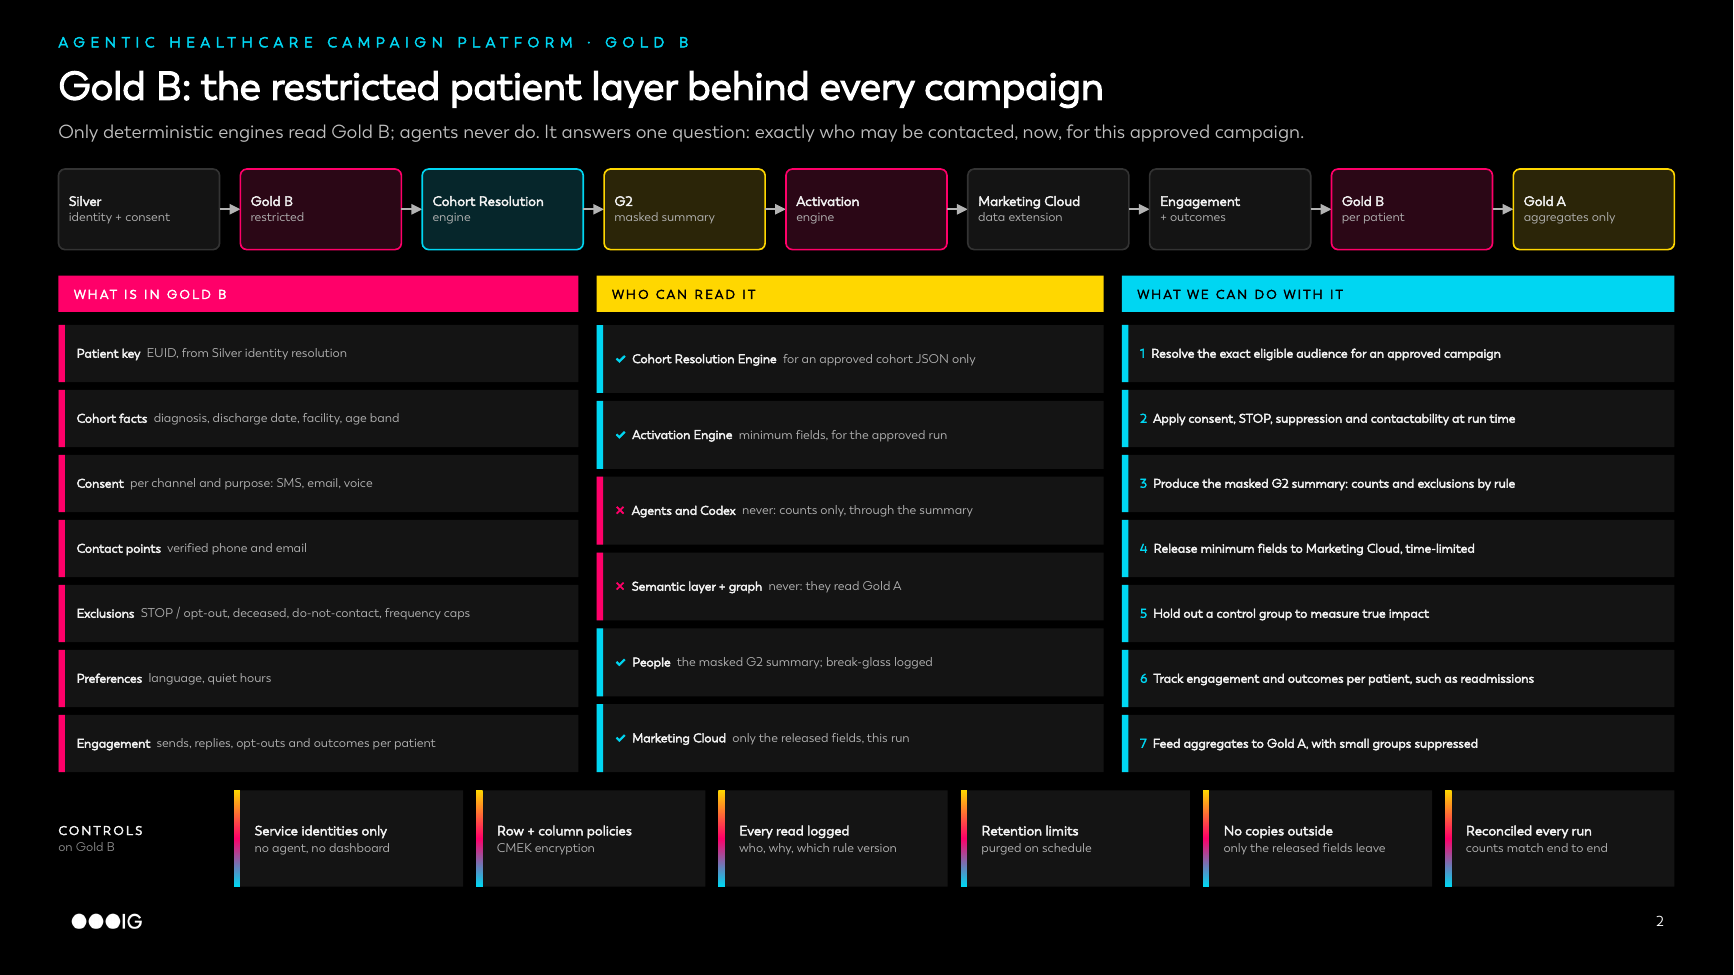
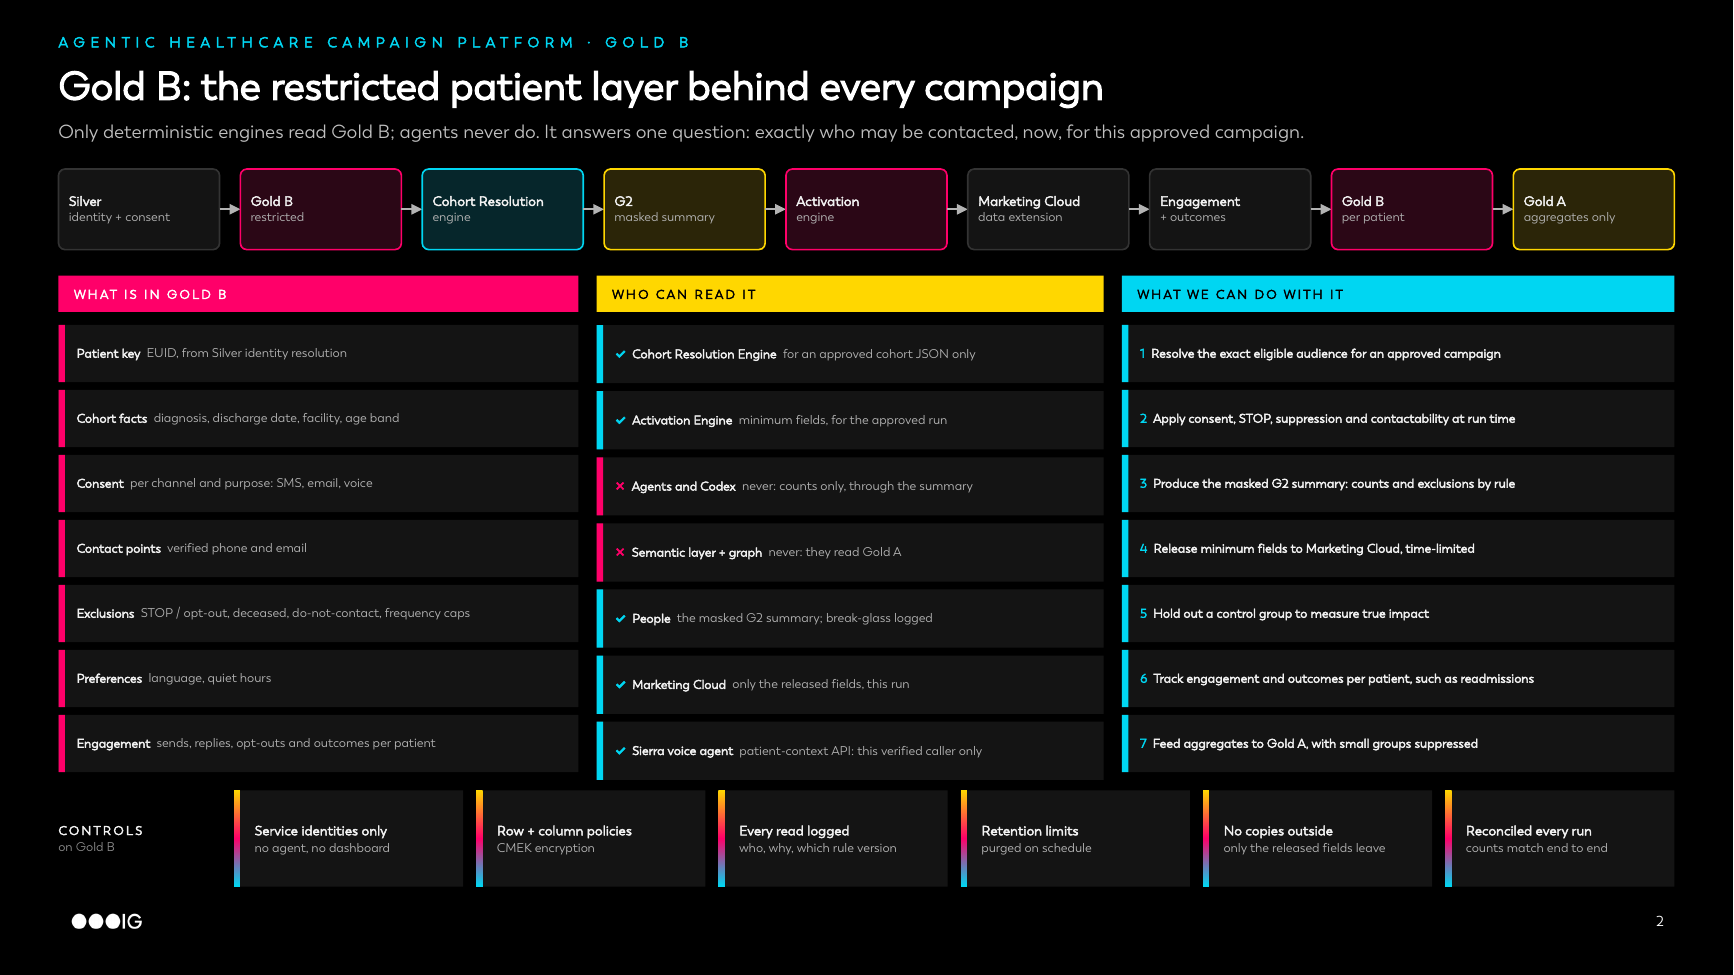
Preview: scoped patient-context API on the Sierra slide
After verification Sierra uses two scoped APIs: scheduling (Epic) and a
read-only patient-context API on Gold B for this caller's campaign status
and consent, never a list. The Gold B slide lists Sierra as a reader
through that API.

Claude-Session: https://claude.ai/code/session_01Hf94kqMzSofkkrQm7kpNba

diff --git a/poc/data_harness/sierra_voice.py b/poc/data_harness/sierra_voice.py
@@ -35,7 +35,7 @@ Sierra answers questions from governed knowledge base articles in Google Cloud, 
 WALK IT
 - Left: the caller talks to the Sierra voice agent.
 - Top, knowledge path (no PHI): articles live in GCP with an owner, version, review date and approval; DLP and Collibra scan them for PHI; only approved articles are indexed and synced to Sierra when they change.
-- Bottom, patient path: verify the caller first; then a scoped scheduling API returns only that patient's data and enforces the rules (cancellation window, reschedule rules, provider restrictions); bookings are written to the scheduling system of record, never a GCP copy.
+- Bottom, patient path: verify the caller first. Then two scoped APIs, each returning only this caller's data: the scheduling API reads and writes the scheduling system of record (Epic) and enforces the rules (cancellation window, reschedule rules, provider restrictions), so bookings are never a GCP copy; the patient-context API reads Gold B, read-only, for this caller's campaign status and consent, for example "you received a heart-failure follow-up text". It never returns a list.
 - Right, after every call: hand-off to a person when needed, masked transcripts with retention limits, opt-outs said on the call update the consent of record at once, outcomes go per call into Gold B and as aggregates into Gold A, and test calls before every release.
 - The knowledge base uses the same semantic layer and knowledge graph as campaigns, so Sierra and every campaign use one vocabulary for locations, visit types and services.
 - Bottom: the seven safeguards."""
@@ -157,30 +157,40 @@ def build(prs, layout):
     cv.rect(mx + mw / 2 - 1.6, by - 0.1, 3.2, 0.2, "000000", None)
     pill(cv, mx + mw / 2 - 1.55, by - 0.09, 3.1, "NO PATIENT RECORDS IN THE KNOWLEDGE BASE", CYAN, h=0.18,
          size=5.2)
-    # patient path
+    # patient path: verify, then two scoped APIs, each to one source
     py, ph = pt_y + 0.4, 1.0
-    pw = [1.75, 2.55, 2.42]
+    pw = [1.6, 2.6, 2.4]
     px = [mx + 0.12]
     for w in pw[:-1]:
         px.append(px[-1] + w + 0.2)
     gate(cv, px[0], py, pw[0], ph, "Verify the caller", "Date of birth plus a one-time code, before any "
          "patient detail.")
-    fx, fy, fw, fh = cv.frame(px[1], py, pw[1], ph, CARD, 0.02)
-    cv.text(fx + 0.1, fy + 0.04, fw - 0.2, 0.26, "Scoped scheduling API", size=7, bold=True, color=T1,
-            anchor=MSO_ANCHOR.MIDDLE)
-    cv.text(fx + 0.1, fy + 0.32, fw - 0.18, fh - 0.34, "Returns only this patient's data and minimum fields. "
-            "Enforces the rules; the agent never writes queries.", size=6, color=T2)
-    cv.rect(px[2], py, pw[2], ph, CARD, EDGE, 0.75, R, 0.08)
-    cv.rect(px[2] + 0.1, py + 0.08, 0.36, 0.2, CARD2, EDGE, 0.6, R, 0.3)
-    cv.text(px[2] + 0.1, py + 0.08, 0.36, 0.2, "Epic", size=5.4, bold=True, color=T1, align=PP_ALIGN.CENTER,
-            anchor=MSO_ANCHOR.MIDDLE)
-    cv.text(px[2] + 0.52, py + 0.05, pw[2] - 0.6, 0.26, "Scheduling system of record", size=7, bold=True, color=T1,
-            anchor=MSO_ANCHOR.MIDDLE)
-    cv.text(px[2] + 0.1, py + 0.36, pw[2] - 0.18, ph - 0.4, "Live availability; book, cancel, reschedule written "
-            "here. Never a GCP copy, which can lag.", size=6, color=T2)
-    cv.arrow(px[0] + pw[0], py + ph / 2, px[1], py + ph / 2, "8C8C8C", 1.0)
-    cv.arrow(px[1] + pw[1], py + ph / 2 - 0.12, px[2], py + ph / 2 - 0.12, CYAN, 1.25)
-    cv.arrow(px[2], py + ph / 2 + 0.12, px[1] + pw[1], py + ph / 2 + 0.12, CYAN, 1.25)
+    rh_ = (ph - 0.08) / 2
+    apis = [("Scoped scheduling API", "This patient's appointments and slots; rules enforced.", None, "Epic",
+             "Scheduling system of record", "Book, cancel, reschedule written here."),
+            ("Scoped patient-context API", "This caller's campaign status and consent; never a list.", CYAN,
+             "Gold B", "Restricted patient layer", "Read-only, for this verified call.")]
+    for k, (t, d, c, tag, st, sd) in enumerate(apis):
+        y = py + k * (rh_ + 0.08)
+        if c:
+            cv.rect(px[1], y, pw[1], rh_, CARD, c, 1.25, R, 0.08)
+        else:
+            fx, fy, fw, fh = cv.frame(px[1], y, pw[1], rh_, CARD, 0.02)
+        cv.text(px[1] + 0.1, y + 0.02, pw[1] - 0.2, rh_ - 0.04, [[(t, {"bold": True, "color": T1})],
+                                                                [(d, {"color": T2, "size": 6})]], size=7,
+                anchor=MSO_ANCHOR.MIDDLE, after=1)
+        cv.rect(px[2], y, pw[2], rh_, CARD, EDGE, 0.75, R, 0.08)
+        tw = 0.18 + 0.06 * len(tag)
+        cv.rect(px[2] + 0.1, y + (rh_ - 0.2) / 2, tw, 0.2, CARD2, EDGE, 0.6, R, 0.3)
+        cv.text(px[2] + 0.1, y + (rh_ - 0.2) / 2, tw, 0.2, tag, size=5.4, bold=True, color=T1,
+                align=PP_ALIGN.CENTER, anchor=MSO_ANCHOR.MIDDLE)
+        cv.text(px[2] + tw + 0.18, y + 0.02, pw[2] - tw - 0.24, rh_ - 0.04, [[(st, {"bold": True, "color": T1})],
+                                                                          [(sd, {"color": T2, "size": 6})]],
+                size=7, anchor=MSO_ANCHOR.MIDDLE, after=1)
+        my_ = y + rh_ / 2
+        cv.arrow(px[0] + pw[0], my_, px[1], my_, "8C8C8C", 1.0)
+        cv.arrow(px[1] + pw[1], my_ - 0.06, px[2], my_ - 0.06, CYAN, 1.25)
+        cv.arrow(px[2], my_ + 0.06, px[1] + pw[1], my_ + 0.06, CYAN, 1.25)
     cv.arrow(lx + lw, py + ph / 2, px[0], py + ph / 2, CYAN, 1.25)
     chips(cv, mx + 0.12, py + ph + 0.14, mw - 0.24, "RULES IN THE API",
           ["cancellation window", "reschedule rules", "visit types", "provider restrictions", "minimum fields"])

diff --git a/poc/data_harness/architecture_v2.py b/poc/data_harness/architecture_v2.py
@@ -199,7 +199,7 @@ Gold B holds what it takes to decide exactly who may be contacted, now, for an a
 WALK IT
 - Top: Silver resolves identity and consent; Gold B serves the Cohort Resolution Engine, the masked G2 summary and the Activation Engine; engagement comes back into Gold B and is aggregated into Gold A.
 - Left, what is in it: the patient key, the cohort facts the rules need, consent per channel and purpose, verified contact points, exclusions, preferences, and engagement and outcomes per patient.
-- Middle, who can read it: the two engines, for an approved run only. Agents, Codex, the semantic layer and the knowledge graph never; people see the masked G2 summary; any break-glass access is logged.
+- Middle, who can read it: the two engines, for an approved run only; the Sierra voice agent through the patient-context API, for one verified caller. Agents, Codex, the semantic layer and the knowledge graph never; people see the masked G2 summary; any break-glass access is logged.
 - Right, what we can do with it: resolve the exact audience, apply consent and suppression at run time, produce the G2 summary, release minimum fields, hold out a control group, track outcomes such as readmissions, and feed safe aggregates back to Gold A.
 - Bottom: the controls on Gold B."""
 
@@ -239,7 +239,8 @@ def slide_b(prs, layout):
            (False, "Agents and Codex", "never: counts only, through the summary"),
            (False, "Semantic layer + graph", "never: they read Gold A"),
            (True, "People", "the masked G2 summary; break-glass logged"),
-           (True, "Marketing Cloud", "only the released fields, this run")]
+           (True, "Marketing Cloud", "only the released fields, this run"),
+           (True, "Sierra voice agent", "patient-context API: this verified caller only")]
     can = ["Resolve the exact eligible audience for an approved campaign",
            "Apply consent, STOP, suppression and contactability at run time",
            "Produce the masked G2 summary: counts and exclusions by rule",
@@ -253,7 +254,7 @@ def slide_b(prs, layout):
     rh = 0.44
     for k, (t, d) in enumerate(inside):
         row(cv, xs[0], top + 0.38 + k * (rh + 0.06), ws[0], rh, "", t, d, MAGENTA)
-    rh2 = (7 * (rh + 0.06) - 6 * 0.06) / 6
+    rh2 = (7 * (rh + 0.06) - (len(who) - 1) * 0.06) / len(who)
     for k, (ok, t, d) in enumerate(who):
         y = top + 0.38 + k * (rh2 + 0.06)
         c = CYAN if ok else MAGENTA
